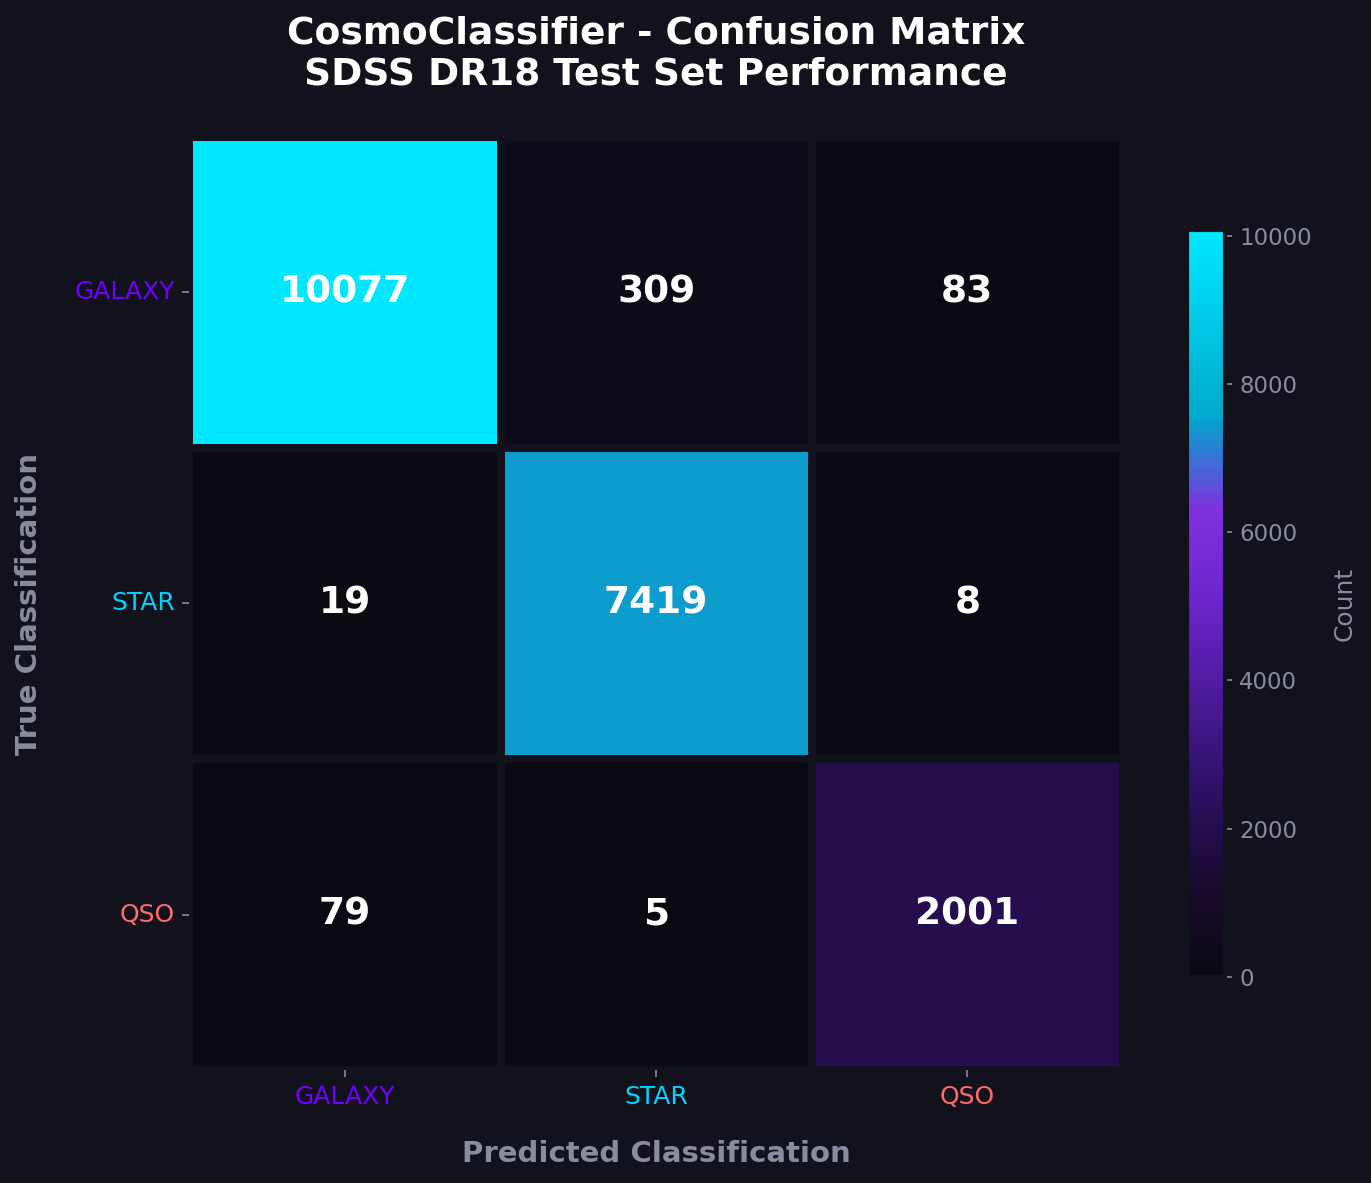
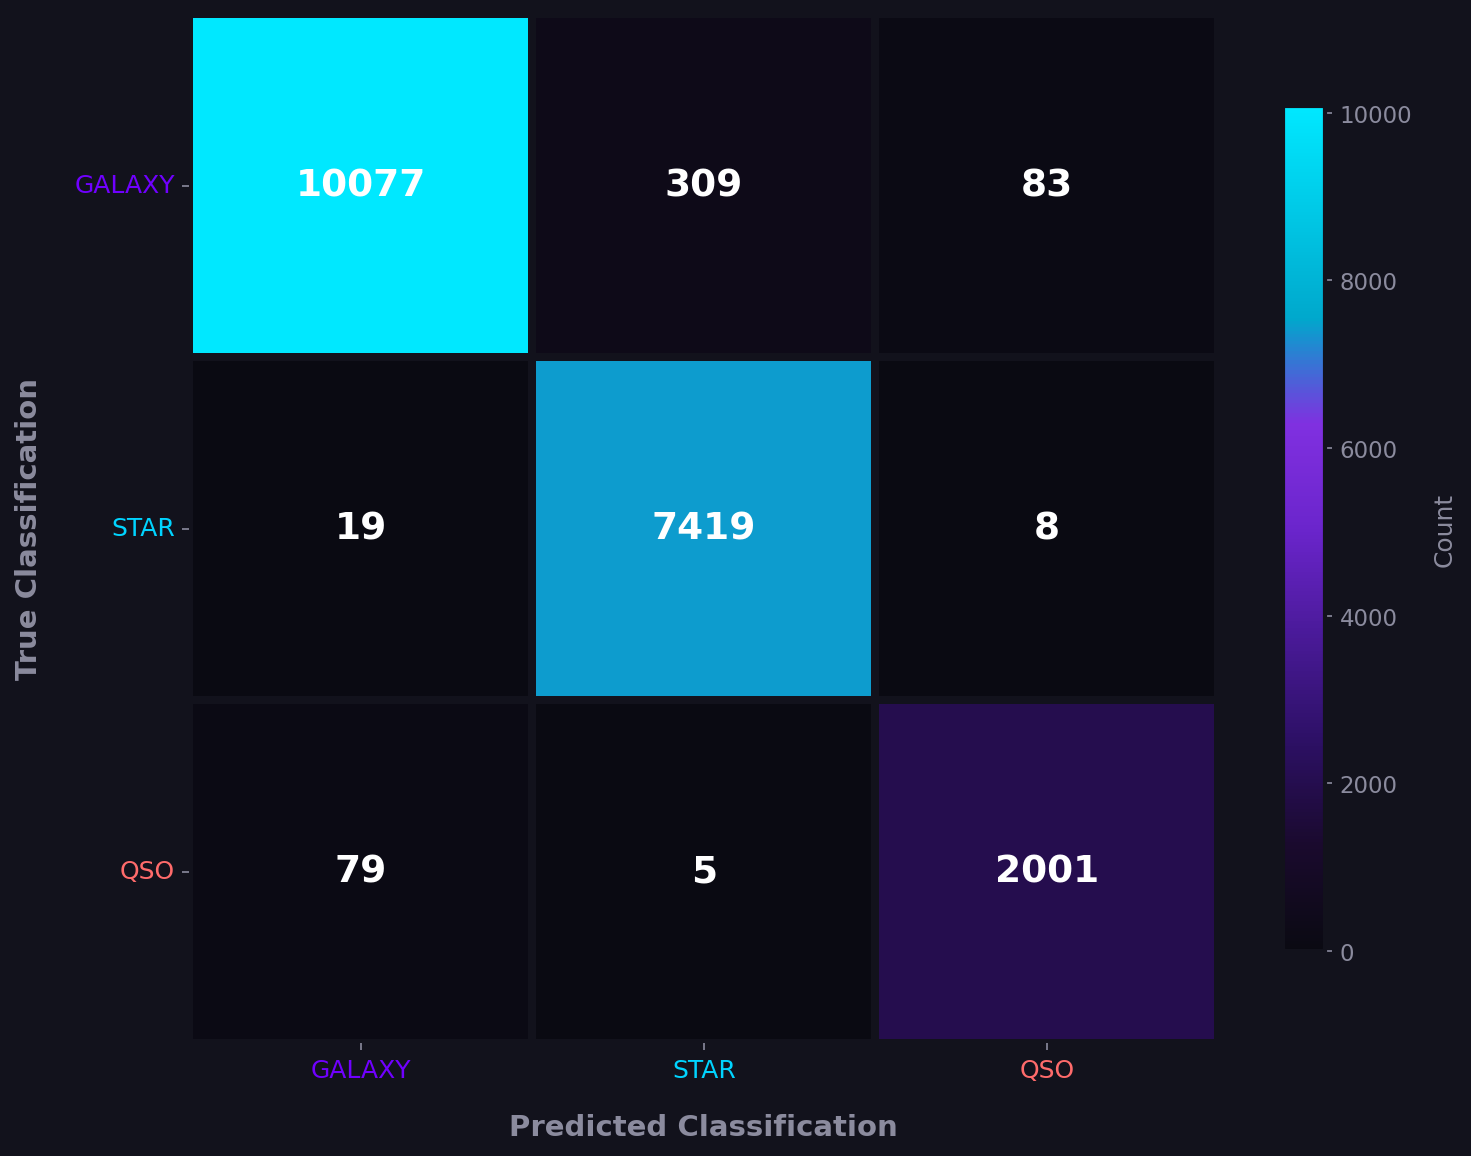
Remove box-shadow effects from UI components

diff --git a/static/style.css b/static/style.css
@@ -348,7 +348,6 @@ body {
     -webkit-backdrop-filter: blur(20px);
     border: 1px solid var(--border-color);
     border-radius: 24px;
-    box-shadow: var(--shadow-soft), var(--shadow-glow);
     position: relative;
     overflow: hidden;
 }
@@ -705,7 +704,6 @@ input:focus ~ .input-focus-line {
 .model-card:hover {
     transform: translateY(-4px);
     border-color: rgba(112, 0, 255, 0.3);
-    box-shadow: var(--shadow-glow);
 }
 
 .card-icon {
@@ -794,7 +792,6 @@ input:focus ~ .input-focus-line {
     max-width: 100%;
     height: auto;
     border-radius: 12px;
-    box-shadow: var(--shadow-soft);
 }
 
 .confusion-legend {
@@ -966,7 +963,6 @@ input:focus ~ .input-focus-line {
     backdrop-filter: blur(20px);
     border: 1px solid var(--border-color);
     border-radius: 12px;
-    box-shadow: var(--shadow-soft);
     animation: toast-in 0.3s ease;
     max-width: 350px;
 }

diff --git a/conf_mat.py b/conf_mat.py
@@ -122,8 +122,6 @@ def plotting(x,y) -> None:
   # Customize labels
   ax.set_xlabel('Predicted Classification', fontsize=14, fontweight='bold', color=TEXT_SECONDARY, labelpad=15)
   ax.set_ylabel('True Classification', fontsize=14, fontweight='bold', color=TEXT_SECONDARY, labelpad=15)
-  ax.set_title('CosmoClassifier - Confusion Matrix\nSDSS DR18 Test Set Performance', 
-               fontsize=18, fontweight='bold', color=TEXT_PRIMARY, pad=25)
   
   # Style the tick labels with class-specific colors
   ax.tick_params(axis='x', colors=TEXT_SECONDARY, labelsize=12, rotation=0)
